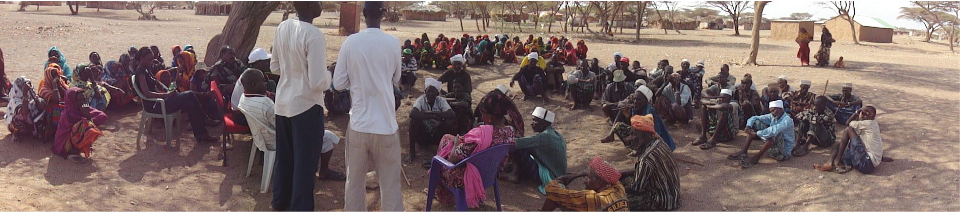
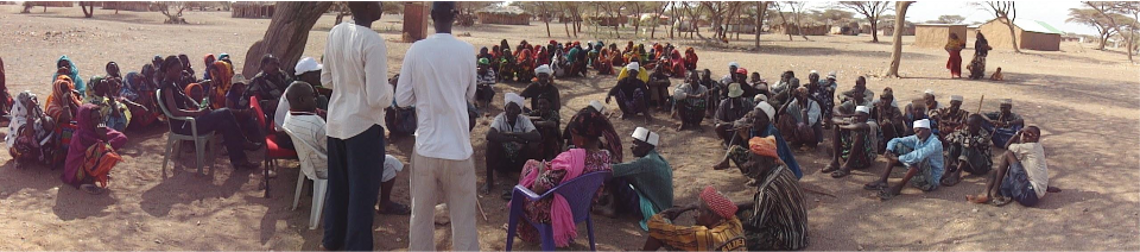
Fix the style and remove the date.

diff --git a/ibli/themes/custom/bootstrap_subtheme/css/style.css b/ibli/themes/custom/bootstrap_subtheme/css/style.css
@@ -5305,7 +5305,7 @@ body.front {
 
 body.node-type-page .what-is-ibli .main-image {
   background: url(../images/what_is_ibli.png) no-repeat;
-  width: 960px;
+  width: 1140px;
   height: 212px;
   margin-top: 5px;
   margin-bottom: 20px; }

diff --git a/ibli/themes/custom/bootstrap_subtheme/sass/pages/_node.scss b/ibli/themes/custom/bootstrap_subtheme/sass/pages/_node.scss
@@ -4,7 +4,7 @@ body.node-type-page {
 
     .main-image {
       background: url(../images/what_is_ibli.png) no-repeat;
-      width: 960px;
+      width: 1140px;
       height: 212px;
       margin-top: 5px;
       margin-bottom: 20px;
